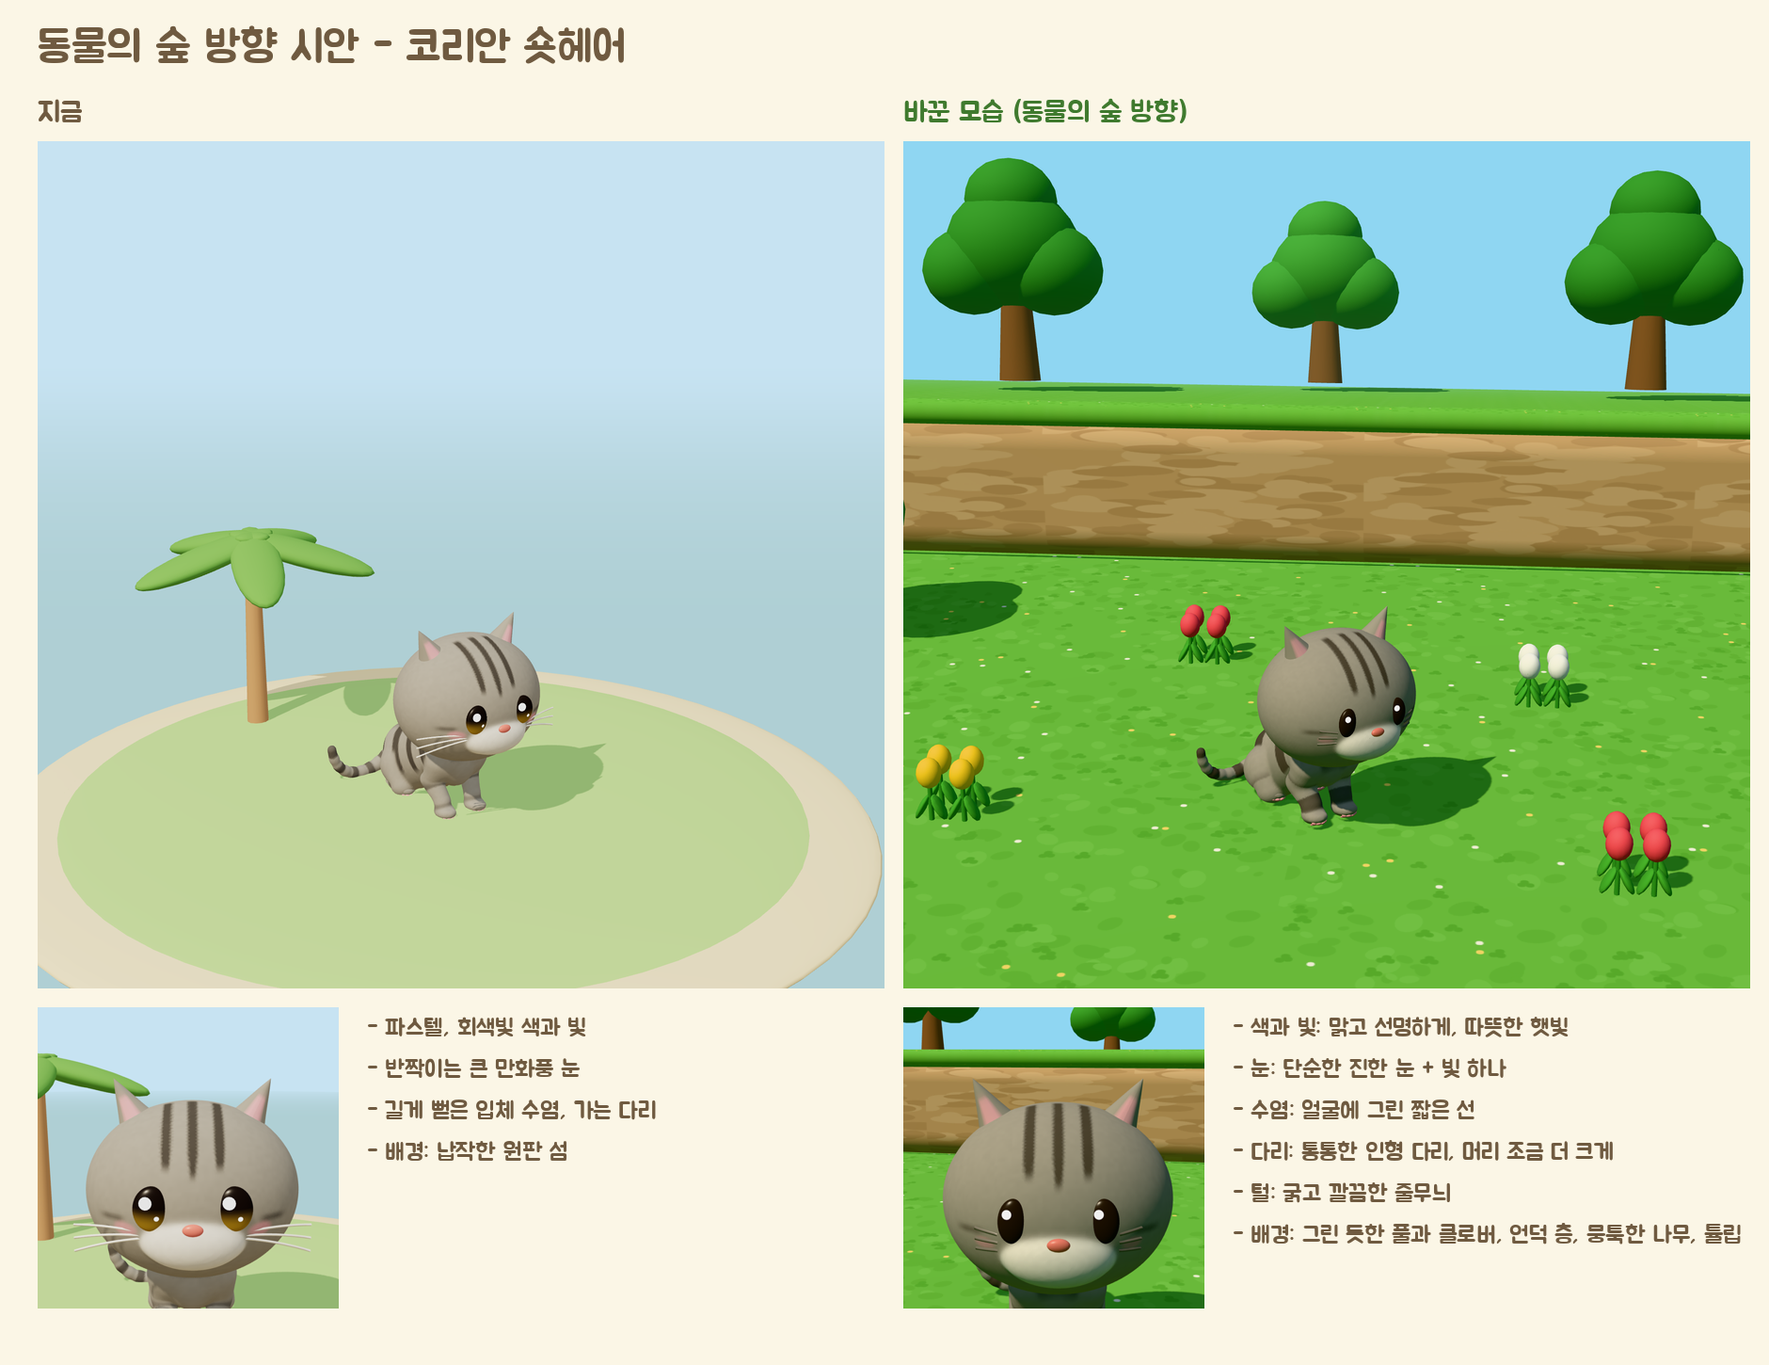
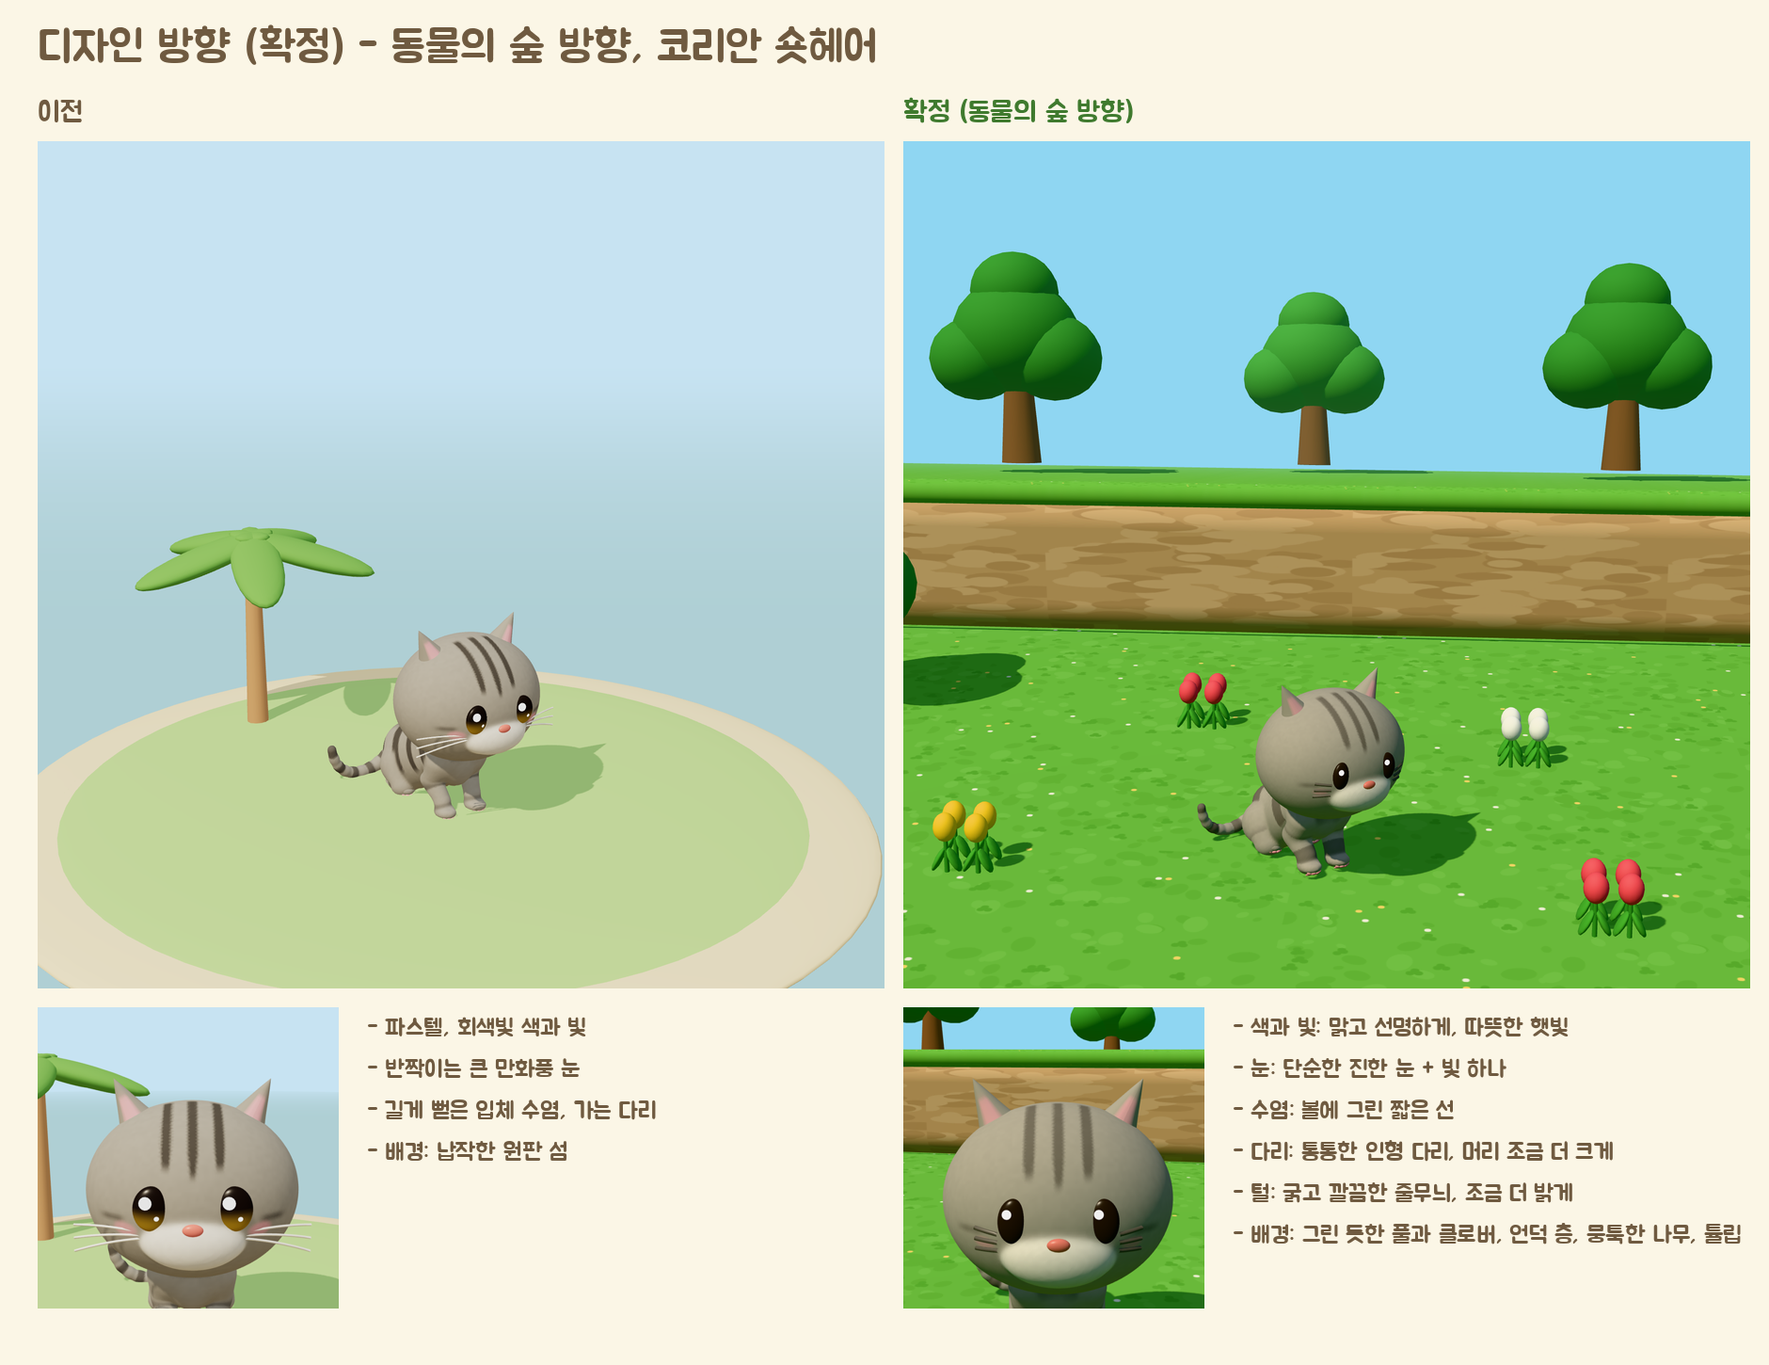
Art direction confirmed: the Animal Crossing direction
- docs/ART_DIRECTION.md: light and colour values, world palette, cat changes
  (simple eyes, painted whisker marks, plush legs, bigger head, bold lighter coat),
  ground / cliff tiers / trees / flowers / sea / curved world, items, checks,
  what not to copy, and the work order
- docs/TERMINAL_PROMPT_ART.md: the instruction to paste into the terminal session
- style 'ac' refined: coat 10% lighter, whisker marks stronger; sample sheet updated
- CLAUDE.md, ART_STYLE.md, PROJECT_BRIEF.md point to the new direction

Claude-Session: https://claude.ai/code/session_015vjHDFNeuhZBMk9pB9WgeS

diff --git a/cat-island/prototype/3d/catmodel.js b/cat-island/prototype/3d/catmodel.js
@@ -522,8 +522,8 @@ export function buildCatModel(shapeIn = {}, coatSpecIn = {}, opts = {}) {
       // short whisker marks lying on the cheek, in a darker shade of the coat (drawn on, not sticking out)
       const pts = [], wy = -HS * (.1 + w * .075), dir = .12 - w * .12;
       for (let k = 0; k <= 8; k++) { const t = k / 8, px = x * (HS * (.5 + t * .2)), py = wy + dir * t * HS * .2; let lo = 0, hi = 2 * HS; for (let i = 0; i < 24; i++) { const m = (lo + hi) / 2; if (F.eval(Hc.x + px, Hc.y + py, Hc.z + m) > 0) hi = m; else lo = m; } pts.push(V(px, py, lo + HS * .006)); }   // on the sculpted cheek
-      const wc = C(coatSpec.base || '#999999').multiplyScalar(.55);
-      faceAdd(new THREE.TubeGeometry(new THREE.CatmullRomCurve3(pts), 8, HS * .014, 5, false), wc, HM, 0);
+      const wc = C(coatSpec.base || '#999999').multiplyScalar(.38);
+      faceAdd(new THREE.TubeGeometry(new THREE.CatmullRomCurve3(pts), 8, HS * .02, 6, false), wc, HM, 0);
     }
     if (!AC && s.whisker !== 'none') for (const [, x] of SIDES) for (let w = 0; w < 3; w++) {
       const pts = [], a = (w - 1) * .22, cw = s.whisker === 'curly', Lw = HS * (cw ? .6 : .85);

diff --git a/cat-island/prototype/3d/style_compare.html b/cat-island/prototype/3d/style_compare.html
@@ -113,7 +113,7 @@ if (q.get('shot') === 'face') {   // close-up on the face: the head is the top o
   const hb = cat.getObjectByName('Head') || cat; const hp = new THREE.Vector3(); hb.getWorldPosition(hp);
   const hc = new THREE.Vector3(hp.x, box.max.y - .2, hp.z + .05), dir = new THREE.Vector3(Math.sin(cat.rotation.y), 0, Math.cos(cat.rotation.y));
   cam.position.copy(hc).addScaledVector(dir, dist).add(new THREE.Vector3(0, dist * .18, 0)); cam.lookAt(hc);
-} else { cam.position.set(ctr.x + .6, ctr.y + Math.sin(el) * dist, ctr.z + Math.cos(el) * dist); cam.lookAt(ctr.x, ctr.y + .25, ctr.z - 1.0); }
+} else { cam.position.set(ctr.x + .6, ctr.y + Math.sin(el) * dist, ctr.z + Math.cos(el) * dist); cam.lookAt(ctr.x, ctr.y + .45, ctr.z - 1.4); }
 r.render(sc, cam);
 window.__info = { box: [box.min.toArray(), box.max.toArray()] };
 window.__done = true;

diff --git a/cat-island/prototype/3d/catgen.js b/cat-island/prototype/3d/catgen.js
@@ -174,7 +174,8 @@ export function makeCoat(spec) {
         s = Math.max(s, .55 * sstep(.6, .72, vnoise(p.x * 26 + 7, p.y * 26, p.z * 26)) * sstep(-.5, .2, ny));
       }
     }
-    return c.lerp(dark, Math.min(1, s));
+    c.lerp(dark, Math.min(1, s));
+    return spec.bold ? c.lerp(C('#fff8ec'), .1) : c;   // (bold / style 'ac': a cleaner, slightly lighter coat)
   };
 }
 

diff --git a/cat-island/docs/ART_DIRECTION.md b/cat-island/docs/ART_DIRECTION.md
@@ -1,0 +1,105 @@
+# 디자인 방향 (확정): 동물의 숲 방향
+
+> 2026-10-05 사용자 확정. **고양이와 배경의 생김새는 이 문서를 따른다.** `ART_STYLE.md`와 다른 내용이 있으면 이 문서가 우선한다.
+> 화면(UI)·로고·말투는 `BRAND.md`. 이 문서는 게임 속 세상(고양이, 땅, 나무, 바다, 용품, 빛)의 기준이다.
+
+![이전과 확정 방향 비교](images/style_sample_ac.png)
+
+- 시안을 다시 만드는 명령: `cd prototype/3d && python3 brand_shot.py style_compare.html "side=ac&dist=6.4&el=.36" ac.png 900 900` (`side=now`는 이전 모습)
+- 시안 코드: `prototype/3d/style_compare.html`, 고양이는 `buildCatModel(shape, coat, { style: 'ac' })`.
+
+---
+
+## 1. 한 문장
+**"햇살 쨍한 오후, 장난감 같은 섬에서 사는 통통한 고양이들."**
+이전의 '연한 파스텔'에서 **맑고 선명한 색, 또렷한 햇빛, 인형 같은 고양이**로 바꾼다. 동물의 숲처럼 보이게 하는 것은 '분위기'이고, 모양·캐릭터·마크는 우리 것이다 (8장).
+
+## 2. 색과 빛
+
+### 2-1. 빛 (Unity URP, 시안 값)
+| 항목 | 값 | 이전 |
+|---|---|---|
+| 색 보정(톤 매핑) | **Neutral**, 노출 1.0 | ACES, 1.1 (색이 바래 보였음) |
+| 해 | 색 `#FFF0D0`, 세기 3.1 (three.js 기준. Unity에서는 같은 인상이 되게 맞춘다), 높이 약 50°, 왼쪽 앞에서 | `#FFF1D6`, 2.0 |
+| 하늘빛(주변광) | 위 `#CDEEFF` / 아래 `#7FB85A`, 1.15 | 위 `#F4FBFF` / 아래 `#C9B892`, 1.7 |
+| 그림자 | 부드럽게 (반경 3), 해상도 4096, 진하기는 해 세기로 (검지 않게) | 반경 4, 연함 |
+| 안개(먼 곳) | 하늘색 `#8FD6F2`, 카메라에서 9~20 m | 하늘색, 4~9 m |
+
+- 명암이 또렷해야 한다: 해 쪽은 밝고 따뜻하게, 그늘은 푸르스름하게 (검정 금지).
+- 시간대 변화(아침·저녁·밤)는 `ART_STYLE.md` 4-2를 따르되, 같은 '맑음'을 유지한다 (저녁도 탁하지 않게).
+
+### 2-2. 세상의 색표
+| 이름 | HEX | 쓰는 곳 |
+|---|---|---|
+| 풀 | `#74C254` (밝은 무늬 `#7CC85B`, 어두운 무늬 `#6DBB4E`, 클로버 `#63B247`) | 땅 |
+| 하늘 | `#8FD6F2` | 하늘, 먼 안개 |
+| 바다 | `#3FC4DC` | 깊은 물 |
+| 얕은 물 | `#8EE6E4` | 바닷가 띠 |
+| 모래 | `#F5E2A8` (알갱이 `#ECD595`, `#FBEFC6`) | 해변 |
+| 절벽 | `#C9A57A` (돌 무늬 `#BD9970`, `#D4B288`) | 언덕 층 옆면 |
+| 나무 잎 | `#3F9A3E`, `#4AA845` | 나무 |
+| 나무 줄기 | `#8B5E3C` | 나무, 나무 용품 |
+| 꽃 | 빨강 `#FF5D6C`, 노랑 `#FFD23F`, 하양 `#FFFFFF` | 튤립 등 |
+
+- 화면 UI 색(`BRAND.md` 7장)은 그대로다. UI는 크림 바탕의 부드러운 색, 세상은 맑고 선명한 색: 둘이 섞이지 않게 UI 판은 크림색 둥근 카드 위에 올린다.
+
+## 3. 고양이
+
+`buildCatModel(..., { style: 'ac' })`가 아래를 모두 한다. **이 스타일을 기본으로 바꾸고 33품종을 다시 만든다** (9장).
+
+| 부분 | 확정 | 이전 |
+|---|---|---|
+| 눈 | **진한 갈색-검정 한 덩어리 (`#2A201B`) + 왼쪽 위 작은 빛 하나.** 품종 눈 색은 쓰지 않는다 (사진 고양이도 같음) | 품종 눈 색 그라데이션 + 빛 두 개 |
+| 수염 | **볼 위에 그린 짧은 선 3개씩**, 털 바탕색의 38% 밝기, 굵기 머리 크기의 2% | 밖으로 길게 뻗은 흰 선 |
+| 볼 터치 | 작고 연하게 (이전의 70%) | |
+| 머리 | 1.08배 | |
+| 다리 | 굵기 1.3배, 발 1.18배 (인형 다리) | |
+| 털 무늬 | **굵고 깔끔하게**: 줄무늬 수를 줄이고 가장자리를 선명하게 (`coat.bold`) | 가늘고 많은 줄무늬 |
+| 털 색 | 전체를 10% 밝게 (`#FFF8EC` 쪽으로) | |
+| 털 질감 | 보송한 털 요철은 약하게 (노멀맵 세기 절반 이하). 큰 덩어리로 읽히게 | 털 결이 보임 |
+| 표정 | 감은 눈은 지금처럼 'U' 모양 | |
+
+- **같은 크기·같은 뼈대 원칙은 그대로.** 다리 굵기와 머리 크기는 모든 품종에 똑같이 적용된다 (먼치킨은 짧은 다리 그대로).
+- 다리가 굵어지고 머리가 커져서 **동작의 닿음·겹침이 달라진다.** 그루밍(발이 얼굴에 닿기), 귀 긁기, 마시기, 앞발 장난, 점프 착지를 반드시 다시 점검한다 (`qa.mjs`, `qa_items.mjs`).
+- 더 나아갈 것 (선택, 시안 뒤): 꼬리를 조금 더 굵고 단순하게, 귀 안쪽 분홍을 더 선명하게.
+
+## 4. 땅과 배경
+
+| 요소 | 기준 |
+|---|---|
+| 풀밭 | **손으로 그린 듯한 무늬 텍스처**: 바탕 풀색 위에 조금 밝고 어두운 둥근 얼룩, 세 잎 클로버, 아주 작은 흰·노란 꽃 점. 반복이 눈에 띄지 않게 큰 크기로 깐다. 사실적인 풀잎 하나하나는 그리지 않는다 |
+| 언덕 층 | 땅은 **계단식**: 높이 약 0.8 m(고양이 키의 약 1배)씩, 옆면은 둥근 돌 무늬의 모래색 절벽, 위는 풀. 모서리는 둥글게 (반지름 0.18 m) |
+| 나무 | **뭉툭한 장난감 나무**: 짧은 줄기 + 큰 동그란 잎 덩어리 3~4개. 잎은 진한 초록 두 가지. 나무마다 크기·색을 조금씩 다르게 |
+| 꽃 | 튤립 같은 단순한 꽃을 3~4송이씩 모아 심는다 (빨강·노랑·하양) |
+| 바다와 해변 | 모래 띠 → 얕은 물 띠 → 청록 바다. 물은 반짝임 약하게 |
+| 둥근 세상 | **멀어질수록 땅이 둥글게 아래로 휜다** (동물의 숲의 굴러가는 통나무 같은 지평선). 정점 단계에서 카메라 앞 2 m 뒤부터 `y -= 0.03 × 거리²`. Unity에서는 모든 세상 재질(`SoftLit` 포함)에 같은 휨을 넣는다 |
+| 먼 풍경 | 하늘색 안개로 부드럽게. 원하면 아주 약한 흐림(URP 피사계 심도, 가우시안)을 먼 곳에만 |
+
+## 5. 용품
+
+- 이전 용품(`docs/images/items_game.png`)은 너무 연하고 밋밋하다. **색은 맑고 진하게, 질감은 그려 넣는다**:
+  - 나무: 줄기색 `#8B5E3C` 계열에 결 무늬
+  - 천(방석, 숨숨집 안): 짜임 무늬 또는 체크·물방울 같은 큰 무늬
+  - 도자기(그릇): 매끈하되 테두리에 색 띠
+  - 장난감: 원색에 가까운 밝은 색 (빨강·노랑·파랑 계열을 부드럽게)
+- 모양은 지금처럼 둥글게. 크기와 고양이가 쓰는 높이(`BOWL_SURF`, `TOY_TOP`, `DECK_STEP`)는 바꾸지 않는다 → 동작을 다시 맞출 필요 없음.
+
+## 6. 카메라
+- 게임 시점은 그대로 (위에서 35~45° 비스듬히, 좁은 화각). 둥근 세상 휨 덕분에 멀리 하늘이 보인다.
+
+## 7. 점검 기준 (바뀐 것)
+- 기존 점검(겹침 4 mm, 닿음 3 mm 등)은 그대로. 고양이를 바꾼 뒤 대표 8품종으로 먼저 확인하고, 통과한 뒤 33품종을 만든다.
+- 그림 확인: 각 품종을 시안과 같은 장면(`style_compare.html side=ac`)에서 찍어 한 장에 모아 본다. 눈·수염이 모든 털색에서 보이는지 (검은 고양이: 수염 선이 안 보이면 밝은 회색으로), 줄무늬가 깨지지 않는지.
+
+## 8. 따라 하지 않는 것 (저작권·상표)
+- 동물의 숲의 **캐릭터, 나뭇잎 마크, 휴대폰(노크폰) 화면, 글꼴(Humming 등 유료 글꼴), 음악·효과음, 특정 가구·옷 모양**을 흉내 내지 않는다.
+- 따라 하는 것은 '맑은 색, 장난감 같은 덩어리, 그린 듯한 질감, 둥근 세상' 같은 일반적인 분위기뿐이다.
+
+## 9. 작업 순서 (터미널)
+1. `catmodel.js`: `style: 'ac'`를 기본으로 (이전 모습은 `style: 'classic'`으로 남김). 사진 고양이(`photo2cat.js`)도 같은 길로.
+2. 대표 8품종(코리안 숏헤어, 페르시안, 메인쿤, 오리엔탈, 스핑크스, 스코티시 폴드, 브리티시, 먼치킨)으로 `makeClips`의 `skippedClips`, `qa.mjs`, `qa_items.mjs` 확인 → 다리·머리 변경으로 깨진 동작 고치기.
+3. `blender_finish.py`: 털 노멀맵 세기 낮추기. 가능하면 털 무늬를 텍스처 칸마다 직접 계산 (줄무늬 가장자리 깔끔하게; `PROJECT_BRIEF.md` 8장 메모).
+4. 33품종 다시 만들기 → `assets/cats/` 교체 → `unity/tools/sync_art.py`.
+5. 용품 색·질감 (`items.js`, `blender_items.py`) → 다시 내보내기 → `qa_items.mjs`.
+6. Unity: 빛·톤 매핑·안개 (2장), 풀·절벽 텍스처, 언덕 층, 나무, 꽃, 바다, 둥근 세상 휨 (4장).
+7. 그림 확인 (7장) → 문서 그림 갱신(`docs/images/`) → 커밋.

diff --git a/cat-island/docs/TERMINAL_PROMPT_ART.md b/cat-island/docs/TERMINAL_PROMPT_ART.md
@@ -1,0 +1,28 @@
+# 터미널에 붙여 넣을 작업 지시문: 동물의 숲 방향 적용
+
+아래 상자 안의 글을 그대로 터미널의 Claude Code에 붙여 넣는다.
+
+```
+cat-island 프로젝트에서 확정된 새 디자인 방향(동물의 숲 방향)을 게임 전체에 적용해 줘.
+
+먼저 읽을 것:
+- cat-island/CLAUDE.md (작업 규칙: 한국어로 보고, 출시 품질, 생김새·기획이 바뀌는 결정은 먼저 묻기)
+- cat-island/docs/ART_DIRECTION.md (이번 작업의 기준. 시안 그림: docs/images/style_sample_ac.png)
+- cat-island/docs/PIPELINE.md (고양이·동작·용품을 코드로 만들고 자동 점검하는 방법)
+- cat-island/docs/UNITY.md, cat-island/docs/BRAND.md (UI 색·글꼴·말투)
+
+할 일 (ART_DIRECTION.md 9장 순서대로):
+1. prototype/3d/catmodel.js: buildCatModel의 style 'ac'를 기본으로 바꾸고, 이전 모습은 style 'classic'으로 남겨 줘. photo2cat.js로 만드는 사진 고양이도 같은 모습이 되게.
+2. 대표 8품종(코리안 숏헤어, 페르시안, 메인쿤, 오리엔탈, 스핑크스, 스코티시 폴드, 브리티시, 먼치킨)으로 makeClips의 skippedClips, qa.mjs, qa_items.mjs를 확인해 줘. 다리가 굵어지고 머리가 커져서 그루밍·귀 긁기·마시기·앞발 장난·점프 착지가 달라질 수 있어. 깨진 동작을 고치고, 빠지는 동작이 이전보다 늘지 않게 해 줘.
+3. blender_finish.py: 털 노멀맵 세기를 절반 이하로. 가능하면 털 무늬를 텍스처 칸마다 무늬 수식으로 직접 계산해서 줄무늬 가장자리를 깔끔하게.
+4. 33품종 전부 다시 만들어 assets/cats/를 바꾸고 unity/tools/sync_art.py를 돌려 줘. 여러 품종은 코어 수만큼 동시에.
+5. 용품: 색을 맑고 진하게, 나뭇결·천 무늬 같은 질감을 그려 넣어 줘 (items.js, blender_items.py). 크기와 고양이가 쓰는 높이(BOWL_SURF, TOY_TOP, DECK_STEP)는 바꾸지 마. 다시 내보낸 뒤 qa_items.mjs.
+6. Unity: ART_DIRECTION.md 2장의 빛·톤 매핑(Neutral)·안개, 4장의 풀밭 텍스처, 계단식 언덕(절벽), 뭉툭한 나무, 꽃, 바다와 해변, 멀어질수록 땅이 둥글게 휘는 효과(모든 세상 재질에 같은 휨)를 넣어 줘. 기존 테스트(tools/run_tests.sh)가 통과해야 해.
+7. 그림 확인: 각 품종을 시안 장면(prototype/3d/style_compare.html side=ac)에서 찍어 한 장에 모아 보여 줘. 검은 고양이처럼 수염 선이 안 보이는 경우는 밝은 회색으로. Unity 화면 스크린샷도.
+
+지킬 것:
+- 동물의 숲의 캐릭터·나뭇잎 마크·휴대폰 화면·글꼴·음악·특정 가구 모양은 흉내 내지 마 (ART_DIRECTION.md 8장).
+- 모든 고양이는 같은 크기·같은 뼈대(먼치킨만 짧은 다리) 원칙 유지.
+- 단계마다 무엇을 했는지 / 어디까지 됐는지 / 다음에 무엇을 하는지 한국어로 짧게 알려 주고, 단계가 끝날 때마다 커밋해 줘.
+- 시안과 다르게 바꿔야 할 것 같으면(예: 다리를 더 굵게) 먼저 나에게 물어봐.
+```

diff --git a/cat-island/CLAUDE.md b/cat-island/CLAUDE.md
@@ -20,11 +20,12 @@
 | `docs/GAME_MODEL.md` | 고양이 모델·뼈대·동작 21종, Unity에서 쓰는 법 |
 | `docs/ITEMS.md` | 용품 13종, 고양이와 함께 놓는 법, 그림자 설정 |
 | `docs/ENGINE.md` | 엔진: Unity 6 + URP |
+| `docs/ART_DIRECTION.md` | **디자인 방향 (확정): 동물의 숲 방향.** 고양이·땅·나무·바다·용품·빛의 기준. `ART_STYLE.md`보다 우선 |
 | `docs/BRAND.md` | **브랜드 정의서**: 이름 표기, 로고, 색, 글꼴, 말투. 화면·문구·홍보물을 만들 때 기준 |
 | `docs/UNITY.md` | Unity 프로젝트(`unity/`): 고양이·용품 가져오기, 동작 연결, 점검·빌드 명령 |
 
 ## 핵심 원칙 (기획서 요약)
-- 동물의 숲 같은 그림체, 방치형. 벌주지 않는다 / 고양이가 주인공 / 매일 조금씩 다르다.
+- 동물의 숲 같은 그림체(맑고 선명한 색, 인형 같은 고양이, 그린 듯한 질감, 둥근 세상: `docs/ART_DIRECTION.md`), 방치형. 벌주지 않는다 / 고양이가 주인공 / 매일 조금씩 다르다.
 - **모든 고양이는 같은 크기·같은 뼈대** (먼치킨만 짧은 다리). 품종 특징은 얼굴·귀·눈·털·꼬리·무늬와 몸 두께(±10%)로. 코드: `prototype/3d/catmodel.js`의 `frameShape`.
 - 결제 상품은 젤리 묶음, 계절 세트, 별나라 꾸미기뿐. **광고 제거·월간 패스는 팔지 않는다.** 보상형 광고 중심, 배너 없음, 별나라에 광고 없음.
 

diff --git a/cat-island/docs/PROJECT_BRIEF.md b/cat-island/docs/PROJECT_BRIEF.md
@@ -95,6 +95,7 @@
 | 2026-10-05 | 엔진은 Unity 6 유지 | 광고·결제 도구 안정성 |
 | 2026-10-05 | **Unity 프로젝트 시작 (`unity/`, Unity 6.3 LTS)**: 손맛 시제품(쓰다듬기·밥·방석) 위에 파이프라인 고양이(코리안 숏헤어)·용품 3종을 연결 | 기획서 4부 1단계. 고양이·용품 원본은 `assets/` 하나만 두고 `tools/sync_art.py`로 가져온다 (`docs/UNITY.md`) |
 | 2026-10-05 | **이름을 '놀러와요 고양이섬'(줄임말 놀고섬)으로, 상징은 '식빵섬'(식빵 자세로 잠든 고양이 모양 섬)** | '고양이 섬'은 같은·비슷한 이름의 게임이 여럿이라 묻히고 상표 등록이 어려움. 동물의 숲처럼 권하는 말 + 장소, 줄임말이 쉬운 이름. 브랜드 규칙 전체: `BRAND.md` |
+| 2026-10-05 | **디자인 방향 확정: 동물의 숲 방향** (맑은 색·빛, 단순한 눈, 볼에 그린 수염, 통통한 다리, 굵은 무늬, 그린 듯한 풀·언덕 층·뭉툭한 나무·둥근 세상) | 이전 모습은 연한 파스텔 피규어 느낌이라 목표(동물의 숲 고양이판)와 거리가 있었음. 시안 비교 후 결정. 기준: `ART_DIRECTION.md`, 터미널 지시문: `TERMINAL_PROMPT_ART.md` |
 
 ---
 

diff --git a/cat-island/docs/ART_STYLE.md b/cat-island/docs/ART_STYLE.md
@@ -1,5 +1,7 @@
 # 디자인 스타일 기획
 
+> **2026-10-05: 디자인 방향이 바뀌었다 → `ART_DIRECTION.md`가 우선한다** (맑고 선명한 색·빛, 단순한 눈과 그린 수염, 통통한 다리, 그린 듯한 풀·언덕 층·뭉툭한 나무·둥근 세상). 이 문서의 색표·빛 값 중 다른 것은 ART_DIRECTION.md를 따른다.
+
 > 고양이, 용품, 섬, 화면(버튼·창)이 모두 한 그림체로 보이게 하는 기준이다. 새 그림이나 모델을 만들 때 이 문서의 기준에 맞는지 먼저 확인한다.
 
 ## 1. 한 문장
